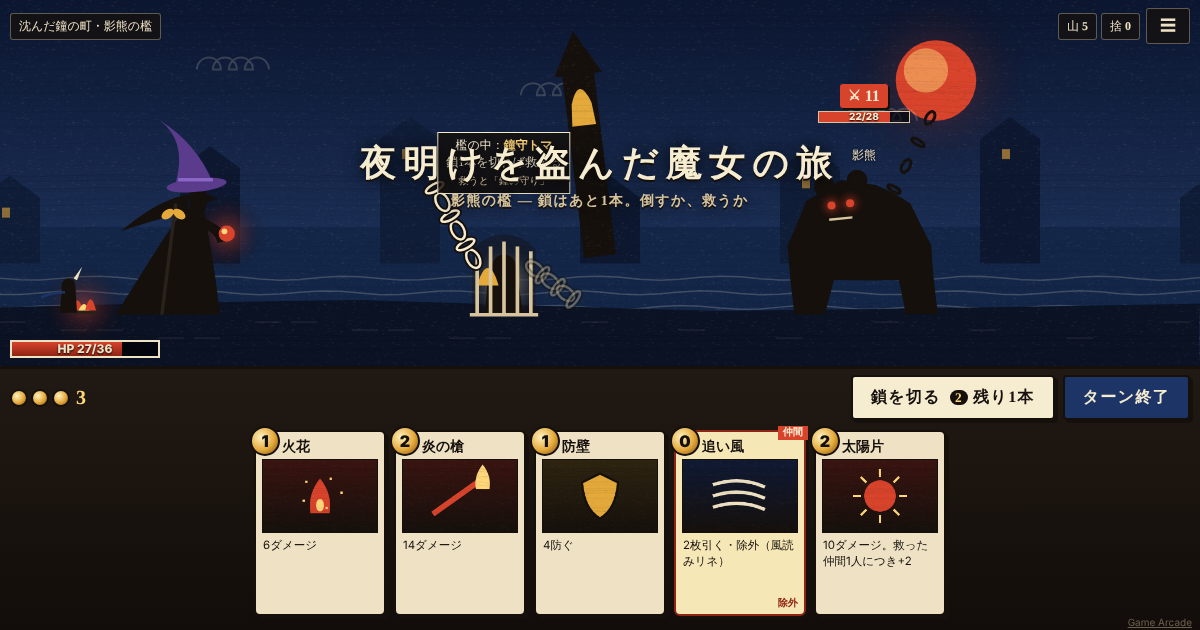
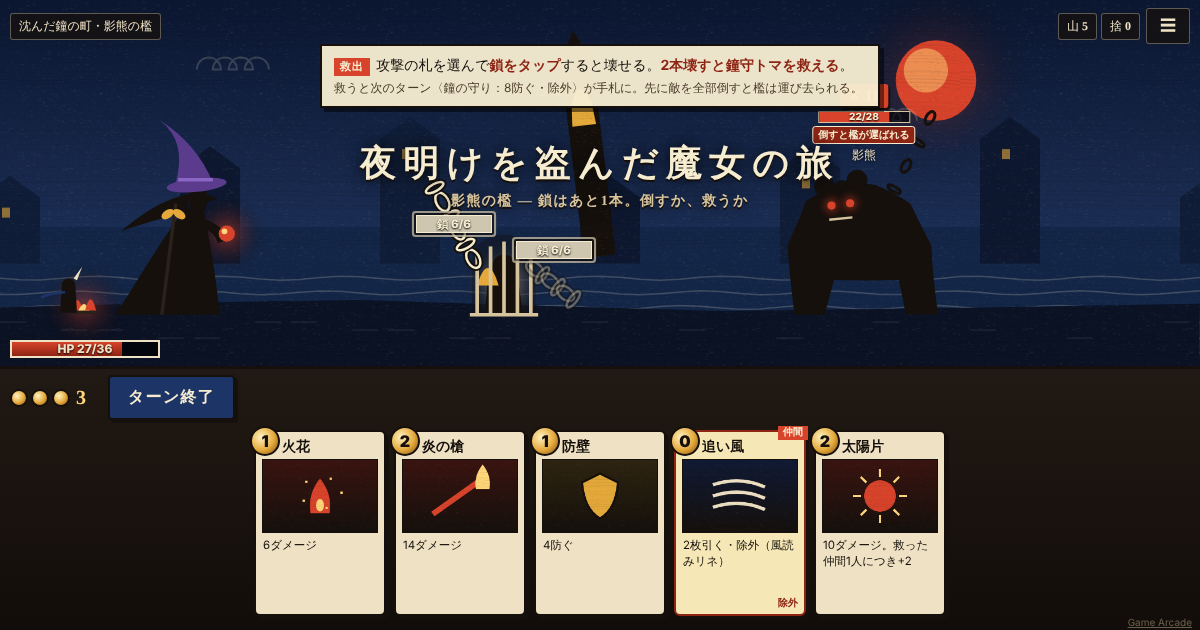
[FIX] 夜明けを盗んだ魔女の旅：救出を「鎖も攻撃の的」に作り直す（鎖切りボタンを廃止、鎖を札で壊す・初回の案内・倒すと檻が運ばれる警告）
Claude-Session: https://claude.ai/code/session_01MokQntdd3n6K58QCqVKUx1

diff --git a/site/games/dawn-thief-witch/game.js b/site/games/dawn-thief-witch/game.js
@@ -233,7 +233,7 @@ function renderBattle() {
       const hpAfter = pf ? pf.hp : f.hp;
       el.innerHTML = `<span class="intent ${it.t}" title="次の行動">${ic}</span>
         <span class="fhp"><i style="width:${(f.hp / f.maxHp) * 100}%"></i>${pf && pf.hp !== f.hp ? `<i class="pv" style="left:${(hpAfter / f.maxHp) * 100}%;width:${((f.hp - hpAfter) / f.maxHp) * 100}%"></i>` : ''}<span>${pf && pf.hp !== f.hp ? `${f.hp}→${hpAfter}` : `${f.hp}/${f.maxHp}`}</span></span>
-        <span class="fbadges">${f.block ? `<span class="badge block">🛡${f.block}</span>` : ''}${f.weak ? '<span class="badge weak">弱体</span>' : ''}</span>
+        <span class="fbadges">${f.block ? `<span class="badge block">🛡${f.block}</span>` : ''}${f.weak ? '<span class="badge weak">弱体</span>' : ''}${b && b.cage === 'locked' && L.living(s).length === 1 && !f.dead ? '<span class="badge cagewarn" title="この敵を倒すと、救う前に檻が運び去られる">倒すと檻が運ばれる</span>' : ''}</span>
         <span class="nm">${f.name}</span>`;
       el.setAttribute('aria-label', `${f.name} HP${f.hp}/${f.maxHp}。次の行動：${it.t === 'a' ? `攻撃${it.total}` : it.t === 'd' ? `防御${it.n}` : '弱体'}`);
       el.style.left = `${pos.x}px`;
@@ -247,17 +247,30 @@ function renderBattle() {
   // 檻の名札：中にいる仲間と、救うと得られる札
   if (b && b.ally && view.cage && b.cage !== 'lost') {
     const tag = document.createElement('div'); tag.className = 'cagetag';
-    tag.innerHTML = b.cage === 'freed' ? `<b>${ALLIES[b.ally].name}</b>を救った` : `檻の中：<b>${ALLIES[b.ally].name}</b><br>鎖${b.chains}本を切れば救える<br><small>救うと「${CARDS[ALLIES[b.ally].card].name}」</small>`;
-    tag.style.left = `${view.cage.x}px`; tag.style.top = `${Math.max(36, view.cage.y - 150 * view.cage.s)}px`;
+    tag.innerHTML = b.cage === 'freed' ? `<b>${ALLIES[b.ally].name}</b>を救った` : `檻の中：<b>${ALLIES[b.ally].name}</b><br><small>鎖を攻撃して2本壊せば救える<br>救うと〈${CARDS[ALLIES[b.ally].card].name}〉</small>`;
+    tag.style.left = `${view.cage.x}px`; tag.style.top = `${Math.max(36, view.cage.y - 200 * view.cage.s)}px`;
     box.appendChild(tag);
+    // 鎖：敵と同じように、攻撃の札で狙える的
+    if (b.cage === 'locked') {
+      const sel = ui.sel && b.hand.find((c) => c.uid === ui.sel);
+      b.chainHp.forEach((hp, i) => {
+        if (hp <= 0) return;
+        const pos = chainPos(i); const after = pv && pv.ok && pv.chainHp ? pv.chainHp[i] : hp;
+        const el = document.createElement('button'); el.type = 'button'; el.className = 'foe chain'; el.dataset.key = `c${i}`;
+        el.innerHTML = `<span class="fhp"><i style="width:${(hp / L.CHAIN_HP) * 100}%"></i><span>${after !== hp ? `鎖 ${hp}→${Math.max(0, after)}` : `鎖 ${hp}/${L.CHAIN_HP}`}</span></span>`;
+        el.setAttribute('aria-label', `檻の鎖${i + 1}、強さ${hp}`);
+        el.style.left = `${pos.x}px`; el.style.top = `${pos.y - 12}px`;
+        if (sel && CARDS[sel.id].target === 'enemy') el.classList.add(ui.target === `c${i}` ? 'targeted' : 'targetable');
+        el.addEventListener('click', () => onFoe(`c${i}`));
+        box.appendChild(el);
+      });
+    }
   }
   // エネルギー
   const en = b ? b.energy : 0;
   $('enN').textContent = en; $('enOrbs').innerHTML = Array.from({ length: Math.max(3, en) }, (_, i) => `<i class="orb${i < en ? '' : ' off'}"></i>`).join('');
   // 鎖
-  const cut = b && b.cage === 'locked';
-  $('cutBtn').hidden = !cut;
-  if (cut) { const ok = L.canCut(s).ok; $('cutBtn').disabled = !ok; $('cutBtn').innerHTML = `鎖を切る <small>2</small><span class="wide"> 残り${b.chains}本</span>`; }
+  $('cutBtn').hidden = true;
   $('endBtn').hidden = false;
   $('endBtn').classList.toggle('warn', ui.endWarned);
   $('endBtn').textContent = ui.endWarned ? 'まだ使える。終える？' : 'ターン終了';
@@ -271,6 +284,12 @@ function renderBattle() {
 function renderCoach() {
   const box = $('coach');
   document.querySelectorAll('.glow').forEach((el) => el.classList.remove('glow'));
+  if (s && s.phase === 'battle' && s.battle && s.battle.cage === 'locked' && !rec.rescueTaught) {
+    const b = s.battle; const nm = ALLIES[b.ally].name;
+    const ac = CARDS[ALLIES[b.ally].card];
+    box.innerHTML = `<span class="coach-k">救出</span>攻撃の札を選んで<b>鎖をタップ</b>すると壊せる。<b>2本壊すと${nm}を救える</b>。<br><small>救うと次のターン〈${ac.name}：${ac.text.replace(/（.*）/, '')}〉が手札に。先に敵を全部倒すと檻は運び去られる。</small>`;
+    box.hidden = false; document.querySelectorAll('.cagetag').forEach((el) => { el.hidden = true; }); document.querySelectorAll('.foe.chain').forEach((el) => el.classList.add('glow')); return;
+  }
   if (!s || s.phase !== 'tutorial' || !s.battle) { box.hidden = true; return; }
   const b = s.battle; const wolf = b.foes[0];
   const has = (id) => b.hand.find((c) => c.id === id);
@@ -344,11 +363,13 @@ function renderConfirm() {
   $('cCard').innerHTML = ''; $('cCard').appendChild(cardEl(c.id, { button: false }));
   const pv = previewNow();
   const chk = L.canPlay(s, c.uid, ui.target);
-  if (d.target === 'enemy' && ui.target == null) { $('cPrompt').textContent = `${d.name}：敵を選ぶ`; $('cPreview').textContent = d.text; $('useBtn').disabled = true; $('cWarn').hidden = true; return; }
-  $('cPrompt').textContent = d.target === 'all' ? `${d.name}：敵すべてに` : d.target === 'self' ? `${d.name}：自分に` : `${d.name}：${b.foes.find((f) => f.key === ui.target).name}へ`;
+  if (d.target === 'enemy' && ui.target == null) { $('cPrompt').textContent = b.cage === 'locked' ? `${d.name}：敵か鎖を選ぶ` : `${d.name}：敵を選ぶ`; $('cPreview').textContent = d.text; $('useBtn').disabled = true; $('cWarn').hidden = true; return; }
+  $('cPrompt').textContent = d.target === 'all' ? `${d.name}：敵すべてに` : d.target === 'self' ? `${d.name}：自分に` : L.isChainKey(ui.target) ? `${d.name}：檻の鎖へ` : `${d.name}：${b.foes.find((f) => f.key === ui.target).name}へ`;
   if (!chk.ok) { $('cPreview').textContent = chk.reason; $('useBtn').disabled = true; $('cWarn').hidden = true; return; }
   const parts = [];
   for (const f of b.foes) { const p = pv.foes.find((x) => x.key === f.key); if (p && (p.hp !== f.hp || p.block !== f.block)) parts.push(`${f.name} HP ${f.hp}→<b>${p.hp}</b>${p.dead ? '（倒れる）' : ''}`); }
+  b.chainHp.forEach((h, i) => { const a = pv.chainHp?.[i]; if (a != null && a !== h) parts.push(`鎖 ${h}→<b>${Math.max(0, a)}</b>${a <= 0 ? '（壊れる）' : ''}`); });
+  if (pv.rescue) parts.push(`<b>${ALLIES[b.ally].name}を救える！</b>`);
   if (pv.block !== b.block) parts.push(`防御 ${b.block}→<b>${pv.block}</b>`);
   if (pv.hp !== s.hp) parts.push(`HP ${s.hp}→<b>${pv.hp}</b>`);
   parts.push(`エネルギー ${b.energy}→<b>${pv.energy}</b>`);
@@ -390,7 +411,7 @@ function bindCard(el, c) {
       const inScene = hit.includes($('sceneWrap'));
       if (inScene) {
         ui.sel = c.uid; ui.target = null;
-        if (CARDS[c.id].target === 'enemy') { if (foe) ui.target = Number(foe.dataset.key); else { const alive = L.living(s); if (alive.length === 1) ui.target = alive[0].key; } }
+        if (CARDS[c.id].target === 'enemy') { if (foe) { const k = foe.dataset.key; ui.target = k[0] === 'c' ? k : Number(k); } else { const alive = L.living(s); if (alive.length === 1) ui.target = alive[0].key; } }
         audio.pluck(2); renderBattle();
       } else cancelSel();
     } else if (e.type === 'pointerup') selectCard(c.uid);
@@ -410,7 +431,7 @@ $('endBtn').addEventListener('click', () => endTurn());
 function endTurn() {
   if (ui.lock > 0 || !s.battle || (s.phase !== 'battle' && s.phase !== 'tutorial')) return;
   const b = s.battle;
-  const usable = b.hand.some((c) => CARDS[c.id].cost <= b.energy) || L.canCut(s).ok;
+  const usable = b.hand.some((c) => CARDS[c.id].cost <= b.energy);
   if (s.phase === 'tutorial' && usable) { toast('先に手札のカードを使おう'); return; }
   if (b.energy > 0 && usable && !ui.endWarned) { ui.endWarned = true; renderBattle(); return; }
   ui.endWarned = false; ui.sel = null; ui.target = null;
@@ -426,7 +447,8 @@ function floatAt(x, y, text, cls = '') {
 }
 let bannerT = 0;
 function banner(main, sub = '', dur = 2.2) { $('banner').innerHTML = `${main}${sub ? `<small>${sub}</small>` : ''}`; $('banner').classList.add('on'); bannerT = dur; }
-function foePos(key) { const p = view.foes.find((x) => x.key === key); return p ? { x: p.x, y: (p.y + p.top) / 2 } : { x: view.w * 0.7, y: view.h * 0.5 }; }
+function chainPos(i) { const c = view.cage || { x: view.w / 2, y: view.h, s: 1 }; return { x: c.x + (i ? 41 : -41) * c.s, y: c.y - 75 * c.s }; }
+function foePos(key) { if (L.isChainKey(key)) return chainPos(Number(key.slice(1))); const p = view.foes.find((x) => x.key === key); return p ? { x: p.x, y: (p.y + p.top) / 2 } : { x: view.w * 0.7, y: view.h * 0.5 }; }
 const sparks = [];
 function burst(x, y, col, n = 14) { if (settings.low) return; for (let i = 0; i < n; i++) { const a = Math.random() * Math.PI * 2; const v = 60 + Math.random() * 160; sparks.push({ x, y, vx: Math.cos(a) * v, vy: Math.sin(a) * v - 60, life: 0.5 + Math.random() * 0.4, t: 0, col }); } }
 // 何が起きたかを一行で（画面下の帯）
@@ -438,7 +460,7 @@ function handleEvents() {
   let delay = 0; const step = settings.fast ? 110 : 220;
   // カード1枚ごとの結果をまとめて、一行にする
   let cur = null; const flush = () => { if (!cur) return; const d = CARDS[cur.id]; const parts = [];
-    for (const [k, v] of Object.entries(cur.dmg)) { const f = (s.battle || s.lastBattle)?.foes.find((x) => x.key === Number(k)); parts.push(`${f ? f.name : '敵'}に<b>${v.dmg}</b>ダメージ${v.blocked ? `（🛡で${v.blocked}防がれた）` : ''}${v.kill ? '・倒した' : ''}`); }
+    for (const [k, v] of Object.entries(cur.dmg)) { if (v.chain) { parts.push(`檻の鎖に<b>${v.dmg}</b>${s.battle && s.battle.chainHp[Number(k.slice(1))] <= 0 ? '・壊した' : ''}`); continue; } const f = (s.battle || s.lastBattle)?.foes.find((x) => x.key === Number(k)); parts.push(`${f ? f.name : '敵'}に<b>${v.dmg}</b>ダメージ${v.blocked ? `（🛡で${v.blocked}防がれた）` : ''}${v.kill ? '・倒した' : ''}`); }
     if (cur.block) parts.push(`自分に<b>🛡${cur.block}</b>`); if (cur.heal) parts.push(`HP<b>+${cur.heal}</b>`); if (cur.draw) parts.push(`${cur.draw}枚引いた`); if (cur.weak) parts.push('敵を弱体にした'); if (cur.retrieve) parts.push(`${CARDS[cur.retrieve].name}を手札へ`);
     log(`〈${d.name}〉 ${parts.join('、') || d.text}`); cur = null; };
   const handBefore = s.battle ? s.battle.hand.length : 0; void handBefore;
@@ -454,10 +476,11 @@ function handleEvents() {
       case 'kill': { if (cur && cur.dmg[e.key]) cur.dmg[e.key].kill = true; const p = foePos(e.key); setTimeout(() => burst(p.x, p.y, '#ffd77a', 30), 220); break; }
       case 'block': if (cur) cur.block += e.n; audio.block(); floatAt(view.witch.x + 20, view.witch.y - 120 * view.s, `🛡+${e.n}`, 'blk'); break;
       case 'heal': if (cur) cur.heal += e.n; if (e.n) floatAt(view.witch.x, view.witch.y - 140 * view.s, `+${e.n}`, 'small'); break;
-      case 'cut': audio.chain(); burst(view.cage?.x || view.w / 2, (view.cage?.y || view.h) - 70 * view.s, '#f6ecd0', 16); banner(e.left ? '鎖を1本切った' : '', e.left ? 'あと1本。次のターンにもう一度' : ''); break;
-      case 'rescue': audio.bell(); banner(`${ALLIES[e.ally].name}を救った`, `次のターン、${CARDS[ALLIES[e.ally].card].name}が手札に来る`, 2.6); break;
+      case 'chainHit': { if (cur) { const k = `c${e.idx}`; const r = cur.dmg[k] || (cur.dmg[k] = { dmg: 0, blocked: 0, chain: true }); r.dmg += e.dmg; } const p = chainPos(e.idx); setTimeout(() => { floatAt(p.x, p.y, `-${e.dmg}`, 'dmg'); burst(p.x, p.y, '#f6ecd0', 10); }, settings.low ? 0 : 200); break; }
+      case 'cut': audio.chain(); { const p = chainPos(e.idx); setTimeout(() => burst(p.x, p.y, '#f6ecd0', 24), 220); } if (e.left) banner('鎖が1本壊れた', 'あと1本で救える'); break;
+      case 'rescue': rec.rescueTaught = true; saveRec(); audio.bell(); banner(`${ALLIES[e.ally].name}を救った`, `次のターン、${ALLIES[e.ally].name}の札〈${CARDS[ALLIES[e.ally].card].name}〉が手札に来る`, 2.6); break;
       case 'allyCard': banner(`${CARDS[e.id].name}が手札に`, '', 1.4); break;
-      case 'cageLost': banner('檻が運び去られた', `${ALLIES[e.ally].name}は救えなかった`, 2.4); break;
+      case 'cageLost': rec.rescueTaught = true; saveRec(); banner('檻が運び去られた', `${ALLIES[e.ally].name}は救えなかった`, 2.4); break;
       case 'hurt': {
         flush();
         { const f = (s.battle || s.lastBattle)?.foes.find((x) => x.key === e.key); log(`${f ? f.name : '敵'}の攻撃 ${e.dmg + e.blocked} → ${e.blocked ? `🛡で${e.blocked}防ぎ、` : ''}<b>${e.dmg}</b>受けた`); }
@@ -469,7 +492,7 @@ function handleEvents() {
       case 'weakened': flush(); log('<b>弱体</b>にされた：次の攻撃札が1打ごと2弱くなる'); floatAt(view.witch.x, view.witch.y - 160 * view.s, '弱体', 'small'); break;
       case 'weak': if (cur) cur.weak = true; for (const f of view.foes) floatAt(f.x, f.top, '弱体', 'small'); break;
       case 'turn': if (e.turn > 1) { const d = delay; setTimeout(() => banner(`ターン ${e.turn}`, '', 0.8), d); } break;
-      case 'battle': logLines.length = 0; $('actlog').hidden = true; if (e.type !== 'tutorial') { const nd = NODES[s.node]; if (nd && s.phase === 'battle') banner(nd.name, s.node === 0 ? '敵の上は次の行動：⚔攻撃・🛡防御・☾弱体。⚔は防壁で防げる' : nd.type === 'rescue' ? `檻の中に${ALLIES[nd.ally].name}。鎖2本を切れば救える（1本2エネルギー）` : nd.type === 'boss' ? CHAPTERS[nd.ch].boss : '', 2.6); } break;
+      case 'battle': logLines.length = 0; $('actlog').hidden = true; if (e.type !== 'tutorial') { const nd = NODES[s.node]; if (nd && s.phase === 'battle') banner(nd.name, s.node === 0 ? '敵の上は次の行動：⚔攻撃・🛡防御・☾弱体。⚔は防壁で防げる' : nd.type === 'rescue' ? `檻の中に${ALLIES[nd.ally].name}。鎖2本を攻撃で壊せば救える` : nd.type === 'boss' ? CHAPTERS[nd.ch].boss : '', 2.6); } break;
       case 'win': audio.win(); banner('勝利', '', 1.2); break;
       case 'dead': audio.lose(); break;
       case 'retrieve': if (cur) cur.retrieve = e.id; banner(`${CARDS[e.id].name}が手札に戻った`, '', 1.2); break;
@@ -623,7 +646,7 @@ $('menuBtn').addEventListener('click', () => {
   $('mBack').addEventListener('click', () => { closeModal(); route(); });
   if ($('mSkip')) $('mSkip').addEventListener('click', () => { L.skipTutorial(s); afterAdvance(); });
   $('mDeck').addEventListener('click', () => showDeck(() => $('menuBtn').click()));
-  $('mHelp').addEventListener('click', () => modal(`<h2>遊び方</h2><p style="text-align:left">毎ターン、エネルギー3で手札5枚を使う。<br>敵の頭の上に<b>次の行動</b>が出ている（⚔攻撃・🛡防御・☾弱体）。攻撃は🛡防御で減らせる。<br>カードは<b>選ぶ→敵を選ぶ→使う</b>。カードを上へドラッグして敵に落としてもよい。<br><b>檻</b>のある戦いでは「鎖を切る」（2エネルギー・1ターン1回）を2回で仲間を救える。救う前に敵を全滅させると檻は運び去られる。<br>勝ったらカードを1枚選んでデッキを組み替える。3章のボスを倒せば夜明け。</p><p class="sub">キー：1〜8 カード／Tab 敵の切替／Enter 使う／Esc 取消／E ターン終了／C 鎖を切る</p><div class="row"><button id="bk" class="btn" type="button">戻る</button></div>`) || $('bk').addEventListener('click', () => $('menuBtn').click()));
+  $('mHelp').addEventListener('click', () => modal(`<h2>遊び方</h2><p style="text-align:left">毎ターン、エネルギー3で手札5枚を使う。<br>敵の頭の上に<b>次の行動</b>が出ている（⚔攻撃・🛡防御・☾弱体）。攻撃は🛡防御で減らせる。<br>カードは<b>選ぶ→敵を選ぶ→使う</b>。カードを上へドラッグして敵に落としてもよい。<br><b>檻</b>のある戦いでは、<b>鎖も攻撃の的</b>。攻撃の札で鎖を2本壊すと仲間を救え、次のターンに仲間の札が手札に来る。救う前に敵を全滅させると檻は運び去られる。<br>勝ったらカードを1枚選んでデッキを組み替える。3章のボスを倒せば夜明け。</p><p class="sub">キー：1〜8 カード／Tab 敵・鎖の切替／Enter 使う／Esc 取消／E ターン終了</p><div class="row"><button id="bk" class="btn" type="button">戻る</button></div>`) || $('bk').addEventListener('click', () => $('menuBtn').click()));
   $('mSet').addEventListener('click', () => openSettings(() => $('menuBtn').click()));
   $('mTitle').addEventListener('click', () => { save(); closeModal(); s = null; show('title'); refreshTitle(); });
 });
@@ -635,9 +658,8 @@ window.addEventListener('keydown', (e) => {
   if (/^[1-8]$/.test(e.key)) { const c = b.hand[Number(e.key) - 1]; if (c) selectCard(c.uid); e.preventDefault(); }
   else if (e.key === 'Escape') cancelSel();
   else if (e.key === 'Enter') { if (ui.sel && !$('useBtn').disabled) { useSelected(); e.preventDefault(); } }
-  else if (e.key === 'Tab' && ui.sel) { const alive = L.living(s); if (alive.length) { const i = alive.findIndex((f) => f.key === ui.target); ui.target = alive[(i + 1) % alive.length].key; renderBattle(); } e.preventDefault(); }
+  else if (e.key === 'Tab' && ui.sel) { const keys = [...L.living(s).map((f) => f.key), ...L.chainTargets(s)]; if (keys.length) { const i = keys.indexOf(ui.target); ui.target = keys[(i + 1) % keys.length]; renderBattle(); } e.preventDefault(); }
   else if (e.key === 'e' || e.key === 'E') endTurn();
-  else if (e.key === 'c' || e.key === 'C') $('cutBtn').click();
 });
 $('sceneWrap').addEventListener('click', (e) => { if (e.target === cv && ui.sel) { const c = s.battle?.hand.find((x) => x.uid === ui.sel); if (c && CARDS[c.id].target === 'enemy' && ui.target == null) return; } });
 

diff --git a/site/games/dawn-thief-witch/logic.js b/site/games/dawn-thief-witch/logic.js
@@ -2,7 +2,7 @@
 // 状態はすべて JSON にできる素のオブジェクト。乱数はシード付きで、状態の中に持つ（保存・再挑戦で同じ結果になる）。
 import {
   CARDS, ENEMIES, NODES, CHAPTERS, ALLIES, STARTER_DECKS, TUTORIAL_NODE, FIRST_REWARD, MAX_HP, ENERGY, DRAW, HAND_MAX,
-  CHAIN_COST, REST_HEAL, CHAPTER_HEAL, MIN_DECK_FOR_REMOVE, rewardPool, isAttack, CARD_IDS,
+  CHAIN_HP, REST_HEAL, CHAPTER_HEAL, MIN_DECK_FOR_REMOVE, rewardPool, isAttack, CARD_IDS,
 } from './data.js';
 
 export * from './data.js';
@@ -70,7 +70,7 @@ function startBattle(s, nd, tutorial) {
   const b = {
     tutorial, type: nd.type, name: nd.name, foes: nd.foes.map((f, i) => makeFoe(s, f, i, tutorial)),
     draw: [], hand: [], discard: [], exhaust: [], energy: ENERGY, block: 0, weak: 0, turn: 0,
-    ally: nd.ally || null, chains: nd.ally ? 2 : 0, cage: nd.ally ? 'locked' : 'none', cutThisTurn: false, allyCardPending: false,
+    ally: nd.ally || null, chains: nd.ally ? 2 : 0, chainHp: nd.ally ? [CHAIN_HP, CHAIN_HP] : [], cage: nd.ally ? 'locked' : 'none', allyCardPending: false,
     nextTemp: 1, over: false,
   };
   s.battle = b;
@@ -100,7 +100,7 @@ function drawCards(s, n) {
 
 export function startTurn(s) {
   const b = s.battle;
-  b.turn += 1; b.energy = ENERGY; b.block = 0; b.cutThisTurn = false;
+  b.turn += 1; b.energy = ENERGY; b.block = 0;
   if (b.script) { b.hand = (b.script.shift() || []).map((id, i) => ({ uid: `T${b.turn}${i}`, id, temp: true })); }
   else drawCards(s, DRAW);
   if (b.allyCardPending) {
@@ -152,14 +152,32 @@ function damageFoe(s, foe, n) {
 export function needsTarget(id) { return CARDS[id].target === 'enemy'; }
 
 // 使えるかどうか（理由つき）。使えない場合、状態は一切変えない
+// 檻の鎖も、攻撃の札で狙える的（キーは 'c0' と 'c1'）
+export const isChainKey = (k) => typeof k === 'string' && k[0] === 'c';
+export function chainTargets(s) { const b = s.battle; return b && b.cage === 'locked' ? b.chainHp.map((h, i) => (h > 0 ? `c${i}` : null)).filter(Boolean) : []; }
+function damageChain(s, i, n) {
+  const b = s.battle; if (b.cage !== 'locked' || !(b.chainHp[i] > 0)) return;
+  const dmg = Math.min(n, b.chainHp[i]); b.chainHp[i] -= dmg;
+  ev(s, 'chainHit', { idx: i, dmg });
+  if (b.chainHp[i] <= 0) {
+    b.chains -= 1; ev(s, 'cut', { idx: i, left: b.chains });
+    if (b.chains <= 0) { b.cage = 'freed'; b.allyCardPending = true; ev(s, 'rescue', { ally: b.ally }); }
+  }
+}
+
 export function canPlay(s, uid, targetKey) {
   const b = s.battle; if (!b || b.over || (s.phase !== 'battle' && s.phase !== 'tutorial')) return { ok: false, reason: '戦闘中ではない' };
   const c = b.hand.find((x) => x.uid === uid); if (!c) return { ok: false, reason: '手札にない' };
   const def = CARDS[c.id];
   if (def.cost > b.energy) return { ok: false, reason: 'エネルギーが足りない' };
   if (def.target === 'enemy') {
-    const f = b.foes.find((x) => x.key === targetKey);
-    if (!f || f.dead) return { ok: false, reason: '対象の敵を選ぶ' };
+    if (isChainKey(targetKey)) {
+      const i = Number(targetKey.slice(1));
+      if (b.cage !== 'locked' || !(b.chainHp[i] > 0)) return { ok: false, reason: 'その鎖はもう壊れている' };
+    } else {
+      const f = b.foes.find((x) => x.key === targetKey);
+      if (!f || f.dead) return { ok: false, reason: '対象の敵を選ぶ' };
+    }
   }
   return { ok: true };
 }
@@ -177,6 +195,7 @@ export function playCard(s, uid, targetKey) {
     if (b.over) break;
     switch (fx.op) {
       case 'damage': {
+        if (!fx.all && isChainKey(targetKey)) { const i = Number(targetKey.slice(1)); for (let h = 0; h < (fx.hits || 1); h++) damageChain(s, i, hitDamage(s, fx, null)); break; }
         const targets = fx.all ? living(s) : [b.foes.find((x) => x.key === targetKey)];
         for (let h = 0; h < (fx.hits || 1); h++) for (const f of targets) if (!f.dead && !b.over) damageFoe(s, f, hitDamage(s, fx, f));
         break;
@@ -212,26 +231,10 @@ export function preview(s, uid, targetKey) {
   return {
     ok: true, hp: t.hp, block: b.block ?? 0, energy: b.energy ?? 0,
     foes: (b.foes || []).map((f) => ({ key: f.key, hp: f.hp, block: f.block, dead: f.dead, weak: f.weak })),
+    chainHp: t.battle ? t.battle.chainHp.slice() : [], rescue: t.events.some((e) => e.type === 'rescue'),
     cageLost: t.events.some((e) => e.type === 'cageLost'),
     win: t.events.some((e) => e.type === 'win'),
   };
-}
-
-// ---------- 鎖を切る（常設・2エネルギー・1ターン1回） ----------
-export function canCut(s) {
-  const b = s.battle;
-  if (!b || b.over || s.phase !== 'battle') return { ok: false, reason: '' };
-  if (b.cage !== 'locked') return { ok: false, reason: '檻はない' };
-  if (b.cutThisTurn) return { ok: false, reason: 'このターンはもう切った' };
-  if (b.energy < CHAIN_COST) return { ok: false, reason: 'エネルギーが足りない' };
-  return { ok: true };
-}
-export function cutChain(s) {
-  const chk = canCut(s); if (!chk.ok) return chk;
-  const b = s.battle; b.energy -= CHAIN_COST; b.chains -= 1; b.cutThisTurn = true;
-  ev(s, 'cut', { left: b.chains });
-  if (b.chains <= 0) { b.cage = 'freed'; b.allyCardPending = true; ev(s, 'rescue', { ally: b.ally }); }
-  return { ok: true };
 }
 
 // ---------- ターン終了と敵の行動 ----------
@@ -369,7 +372,7 @@ function evalAfter(t, policy) {
   const foeHp = b.foes.reduce((a, f) => a + (f.dead ? 0 : f.hp + f.block * 0.5), 0);
   const alive = b.foes.filter((f) => !f.dead).length;
   let v = t.hp * 4 - foeHp * 1.2 - alive * 6;
-  if (policy.rescue && b.ally) v += (2 - b.chains) * 30 + (b.cage === 'freed' ? 40 : 0);
+  if (policy.rescue && b.ally) v += (2 * CHAIN_HP - b.chainHp.reduce((x, y) => x + Math.max(0, y), 0)) * 2.5 + (2 - b.chains) * 15 + (b.cage === 'freed' ? 40 : 0);
   return v;
 }
 function endClone(t) { const c = clone({ ...t, snapBattle: null, snapChapter: null }); c.events = []; endTurn(c); return c; }
@@ -384,10 +387,9 @@ export function bestPlan(s, policy = {}, budget = 600) {
     if (v > best.v) best = { v, plan: plan.slice() };
     if (done) return;
     const seen = new Set();
-    if (policy.rescue && canCut(t).ok) { const c = clone({ ...t, snapBattle: null, snapChapter: null }); c.events = []; cutChain(c); rec(c, [...plan, { cut: true }]); }
     for (const card of b.hand) {
       const def = CARDS[card.id]; if (def.cost > b.energy) continue;
-      const targets = def.target === 'enemy' ? b.foes.filter((f) => !f.dead).map((f) => f.key) : [undefined];
+      const targets = def.target === 'enemy' ? [...b.foes.filter((f) => !f.dead).map((f) => f.key), ...(policy.rescue ? chainTargets(t) : [])] : [undefined];
       for (const tk of targets) {
         const sig = `${card.id}:${tk}`; if (seen.has(sig)) continue; seen.add(sig);
         const c = clone({ ...t, snapBattle: null, snapChapter: null }); c.events = [];
@@ -403,7 +405,6 @@ export function botTurn(s, policy = {}) {
   const plan = bestPlan(s, policy);
   for (const step of plan) {
     const b = s.battle; if (!b || b.over) break;
-    if (step.cut) { cutChain(s); continue; }
     const card = b.hand.find((c) => c.id === step.id && CARDS[c.id].cost <= b.energy);
     if (!card) break;
     playCard(s, card.uid, step.target);

diff --git a/site/games/dawn-thief-witch/style.css b/site/games/dawn-thief-witch/style.css
@@ -199,3 +199,12 @@ body.low * { animation: none !important; transition: none !important; }
 
 .hand { min-height: 196px; }
 @media (max-width: 560px) { .dock { min-height: 232px; } .hand { min-height: 162px; } .confirm { justify-content: center; } }
+
+.foe.chain { min-width: 0; padding: 2px; }
+.foe.chain .fhp { width: 64px; }
+.foe.chain .fhp i { background: #cfc6b0; }
+.foe.chain .fhp { width: 76px; height: 18px; border-color: var(--moon); }
+.foe.chain .fhp span { font-size: 11.5px; line-height: 16px; inset: 0; }
+.foe.chain { background: rgba(21,16,12,.55); border-color: rgba(246,236,208,.6); border-radius: 4px; }
+.badge.cagewarn { background: var(--redD); color: var(--moon); border-color: var(--moon); font-size: 10px; }
+.coach small { display: block; font-size: 12px; color: #4a3a2a; margin-top: 2px; }

diff --git a/site/games/dawn-thief-witch/data.js b/site/games/dawn-thief-witch/data.js
@@ -3,7 +3,7 @@ export const MAX_HP = 36;
 export const ENERGY = 3;
 export const DRAW = 5;
 export const HAND_MAX = 8;
-export const CHAIN_COST = 2;
+export const CHAIN_HP = 6; // 檻の鎖1本の強さ。攻撃の札で壊す（火花1枚でちょうど1本）
 export const REST_HEAL = 10;
 export const CHAPTER_HEAL = 6;
 export const MIN_DECK_FOR_REMOVE = 6; // 残りが5枚以下になる除去はできない
